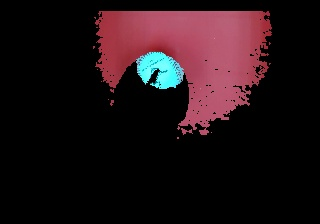
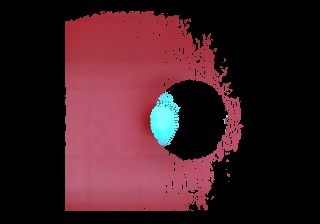
add pic

diff --git a/src/heightmap_creator/src/adjustment.cpp b/src/heightmap_creator/src/adjustment.cpp
@@ -9,7 +9,7 @@ using namespace cv;
 using namespace std;
 
 Mat src, src2; Mat src_gray;
-int thresh = 100;
+int thresh = 70;
 int max_thresh = 255;
 RNG rng(12345);
 Mat warp_mat( 2, 3, CV_32FC1 );
@@ -97,11 +97,11 @@ void thresh_callback(int, void* )
        drawContours( drawing, contours_poly, i, color, 1, 8, vector<Vec4i>(), 0, Point() );
        float size = boundRect[i].size.width*boundRect[i].size.height;
        //cout << size << endl;
-       if (size>1300 && size<1600){
+       if (size>7000 && size<10000){
         for( int j = 0; j < 4; j++ ){
           boundRect[i].points(Apriltagbox);
           apriltagboundRect = boundRect[i];
-          line( drawing, Apriltagbox[j], Apriltagbox[(j+1)%4], Scalar(0,255,0), 1, 8 );  
+          line( drawing, Apriltagbox[j], Apriltagbox[(j+1)%4], Scalar(255,0,0), 10, 8 );  
           //cout << Apriltagbox[j] << endl;
         }
 
@@ -118,20 +118,25 @@ void thresh_callback(int, void* )
   Point2f srcpnts[4];
   Point2f dstpnts[4];
   Point2f Apriltagbox_sorted[4];
-  for (int i=0; i<3; i++){
+  for (int i=0; i<4; i++){
+    //cout << Apriltagbox[i].x << endl;
     if((Apriltagbox[i].x < apriltagboundRect.center.x)&&(Apriltagbox[i].y < apriltagboundRect.center.y)){
+      //cout << "0" << endl;
       Apriltagbox_sorted[0] = Apriltagbox[i];
     }
 
     if((Apriltagbox[i].x < apriltagboundRect.center.x)&&(Apriltagbox[i].y > apriltagboundRect.center.y)){
+      //cout << "1" << endl;
       Apriltagbox_sorted[1] = Apriltagbox[i];
     }
 
     if((Apriltagbox[i].x > apriltagboundRect.center.x)&&(Apriltagbox[i].y > apriltagboundRect.center.y)){
+      //cout << "2" << endl;
       Apriltagbox_sorted[2] = Apriltagbox[i];
     }
 
     if((Apriltagbox[i].x> apriltagboundRect.center.x)&&(Apriltagbox[i].y < apriltagboundRect.center.y)){
+      //cout << "3" << endl;
       Apriltagbox_sorted[3] = Apriltagbox[i];
     }
   }
@@ -140,11 +145,13 @@ void thresh_callback(int, void* )
   srcpnts[1] = Apriltagbox_sorted[1];
   srcpnts[2] = Apriltagbox_sorted[2];
   srcpnts[3] = Apriltagbox_sorted[3];
-  dstpnts[0] = Point2f(160-20, 112-20);
-  dstpnts[1] = Point2f(160-20, 112+20);
-  dstpnts[2] = Point2f(160+20, 112+20);
-  dstpnts[3] = Point2f(160+20, 112-20);
+  dstpnts[0] = Point2f(160-40, 112-40);
+  dstpnts[1] = Point2f(160-40, 112+40);
+  dstpnts[2] = Point2f(160+40, 112+40);
+  dstpnts[3] = Point2f(160+40, 112-40);
+  cout << apriltagboundRect.center.x << " " << apriltagboundRect.center.y << endl;
   cout << Apriltagbox[0] << Apriltagbox[1] << Apriltagbox[2] << Apriltagbox[3] << endl;
+  cout << Apriltagbox_sorted[0] << Apriltagbox_sorted[1] << Apriltagbox_sorted[2] << Apriltagbox_sorted[3] << endl;
   
   warp_mat = getAffineTransform( srcpnts, dstpnts );
 

diff --git a/src/heightmap_creator/src/mergeheightmap.cpp b/src/heightmap_creator/src/mergeheightmap.cpp
@@ -8,7 +8,8 @@
 using namespace cv;
 using namespace std;
 
-Mat src1, src2, src1color, src2color; 
+Mat src1, src2, src1color, src2color;
+Mat src3, src4, src3color, src4color; 
 Mat heightmap, heightmapcolor;
 
 /// Function header
@@ -18,11 +19,18 @@ int main( int argc, char** argv )
 {
   string camera1 = argv[1];
   string camera2 = argv[2];
+  string camera3 = argv[3];
+  //string camera4 = argv[4];
   /// Load source image and convert it to gray
   src1 = imread( "/home/nctuece/catkin_ws/" + camera1 + "heightmap.jpg", 1 );
   src1color = imread( "/home/nctuece/catkin_ws/" + camera1 + "heightmapcolor.jpg", 1 );
   src2 = imread( "/home/nctuece/catkin_ws/" + camera2 + "heightmap.jpg", 1 );
   src2color = imread( "/home/nctuece/catkin_ws/" + camera2 + "heightmapcolor.jpg", 1 );
+  src3 = imread( "/home/nctuece/catkin_ws/" + camera3 + "heightmap.jpg", 1 );
+  src3color = imread( "/home/nctuece/catkin_ws/" + camera3 + "heightmapcolor.jpg", 1 );
+  //src4 = imread( "/home/nctuece/catkin_ws/" + camera4 + "heightmap.jpg", 1 );
+  //src4color = imread( "/home/nctuece/catkin_ws/" + camera4 + "heightmapcolor.jpg", 1 );
+ 
   heightmap = src1;
   heightmapcolor = src1color;
 
@@ -31,17 +39,35 @@ int main( int argc, char** argv )
   //cout << src2.rows << endl;
   for(i=0; i<src1.rows; i++){
     for(j=0;j<src1.cols;j++){
-      if (src1.at<float>(i,j)!=0)
-        cout << src1.at<float>(i,j) << " ";
-      if (src2.at<float>(i,j)!=0)
-        cout << src2.at<float>(i,j) << " ";
       if (src1.at<float>(i,j) > src2.at<float>(i,j))
         heightmap.at<float>(i,j)=src1.at<float>(i,j);
       else if (src1.at<float>(i,j) < src2.at<float>(i,j))
         heightmap.at<float>(i,j)=src2.at<float>(i,j);
     }
   }
+  src1 = heightmap;
+  for(i=0; i<src1.rows; i++){
+    for(j=0;j<src1.cols;j++){
+      if (src1.at<float>(i,j) > src3.at<float>(i,j))
+        heightmap.at<float>(i,j)=src1.at<float>(i,j);
+      else if (src1.at<float>(i,j) < src3.at<float>(i,j))
+        heightmap.at<float>(i,j)=src3.at<float>(i,j);
+    }
+  }
+  /**
+  src1 = heightmap;
+  for(i=0; i<src1.rows; i++){
+    for(j=0;j<src1.cols;j++){
+      if (src1.at<float>(i,j) > src4.at<float>(i,j))
+        heightmap.at<float>(i,j)=src1.at<float>(i,j);
+      else if (src1.at<float>(i,j) < src4.at<float>(i,j))
+        heightmap.at<float>(i,j)=src4.at<float>(i,j);
+    }
+  }
+  */
   heightmapcolor = max(src1color, src2color);
+  heightmapcolor = max(heightmapcolor, src3color);
+  //heightmapcolor = max(heightmapcolor, src4color);
   /*
   char* heightmap_window = "heightmapcolor";
   namedWindow( heightmap_window, CV_WINDOW_AUTOSIZE );

diff --git a/src/heightmap_creator/src/getpose.py b/src/heightmap_creator/src/getpose.py
@@ -31,8 +31,8 @@ def apriltag_callback(data):
 		if count == 0:
 			print "found apriltag:", detection.id
 		#print detection.pose
-		if detection.id == 0:
-			camera_pose3d = lr.lookupTransform('/tag_0', '/camera_link' ,rospy.Time(0))
+		if detection.id == 405:
+			camera_pose3d = lr.lookupTransform('/tag_405', '/camera_link' ,rospy.Time(0))
 			if count == 0:
 				print camera_pose3d
 			count = count + 1
